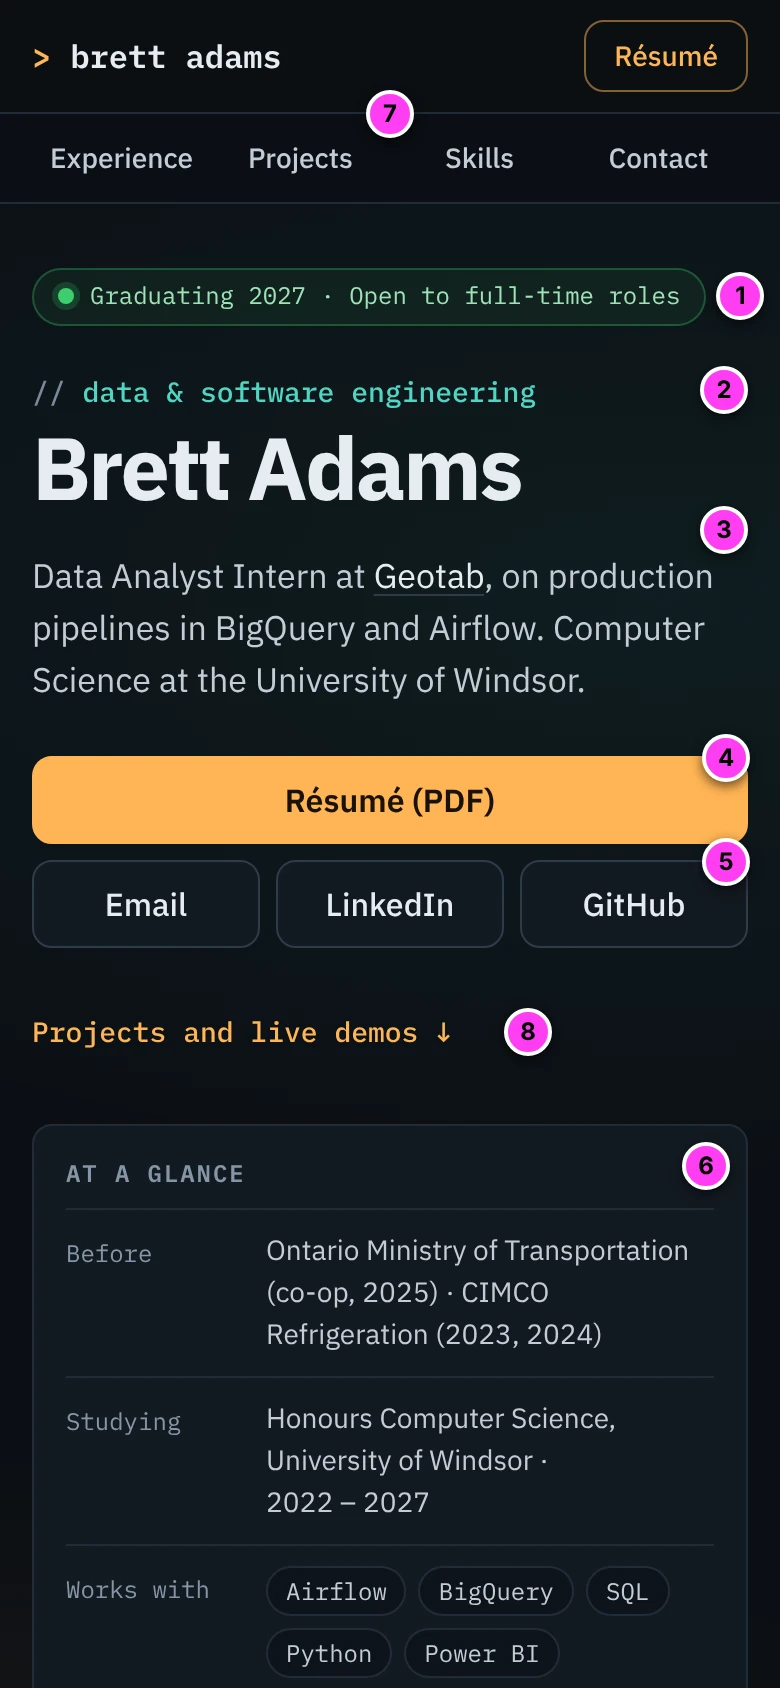
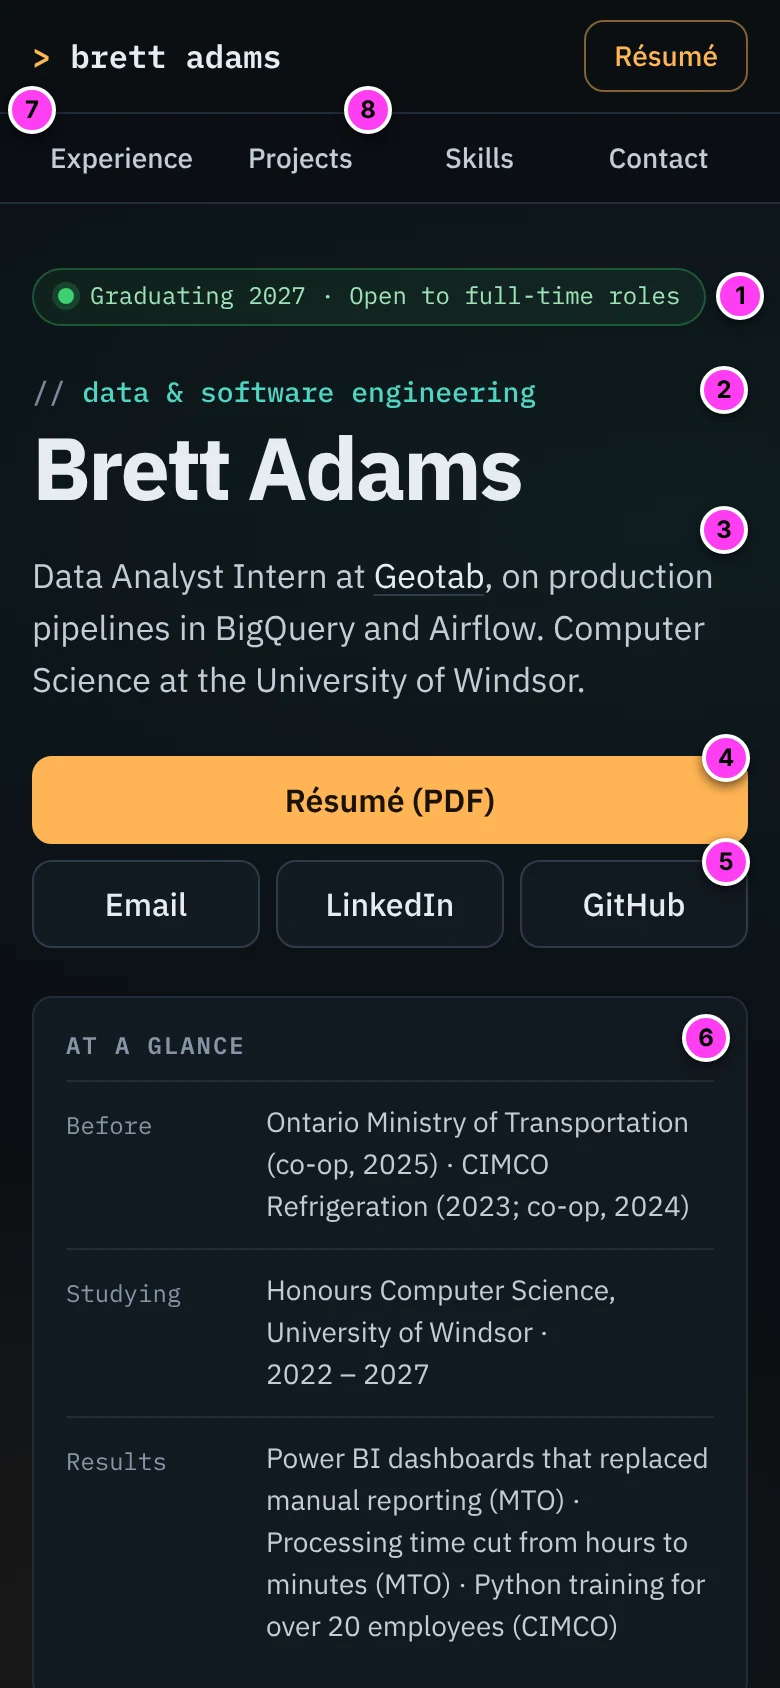
WIP: review fixes in progress (mock and research files)
Claude-Session: https://claude.ai/code/session_01QvLCeGaMDEbJwXX9Jf32bx

diff --git a/handoff/mocks/first-screen.html b/handoff/mocks/first-screen.html
@@ -5,9 +5,11 @@
 
   - Tokens are the proposed :root block from section 7, pasted unchanged.
   - Fonts load from Google Fonts for this mock only. The site self-hosts them (section 7).
-  - Magenta circles (.mk) and magenta dashed boxes (.ph) are mock overlays, not design.
-    Circles are aria-hidden. Dashed boxes mark [BRETT: ...] placeholders that never ship.
-  - Copy is the sourced copy from section 6. Links point where the real ones will.
+  - Magenta circles (.mk) are mock overlays, not design. They are aria-hidden.
+  - Copy is what ships by default (section 6.3): every line sourced, no [BRETT: ...] placeholder.
+    The two glance rows that wait on Brett are kept below as an HTML comment, with their
+    placeholder text, and section 6.2 gives their measured position.
+  - Links point where the real ones will.
   - Markup and class names follow section 8 (8.0-8.4); values come from section 7.
 -->
 <html lang="en">
@@ -266,6 +268,7 @@ main:focus { outline: none; }
   color: var(--muted); font: 600 var(--fs-sm) / 1.4 var(--mono);
   letter-spacing: var(--tracking-caps); text-transform: uppercase;
 }
+.section-lede { max-width: 54em; margin: calc(-1 * var(--space-4)) 0 var(--space-7); color: var(--soft); }
 .timeline { position: relative; margin: 0; padding: 0 0 0 32px; list-style: none; }
 .timeline::before {
   content: ""; position: absolute; left: 6px; top: 8px; bottom: 8px; width: 1px;
@@ -298,6 +301,7 @@ main:focus { outline: none; }
   }
   .nav-sections a:hover { color: var(--text); }
   .hero-grid { grid-template-columns: minmax(0, 1fr); gap: var(--space-6); }
+  .hero-jump { display: none; }   /* row 2's "Projects" does the same job */
   .glance { max-width: 560px; }
 }
 @media (max-width: 640px) {
@@ -309,8 +313,10 @@ main:focus { outline: none; }
   .actions .btn-resume { grid-column: 1 / -1; }
   .glance { max-width: none; padding: 16px; }
   .glance-list > div { grid-template-columns: 88px minmax(0, 1fr); }
-  .glance-list > .glance-now { display: none; }   /* needs the child selector to beat .glance-list > div */
+  .glance-list > .glance-now,
+  .glance-list > .glance-tools { display: none; }   /* needs the child selector to beat .glance-list > div */
   .section { padding: var(--space-8) 0; }
+  .section-lede { display: none; }
 }
 
 /* ---- Mock overlay only: not part of the design ---- */
@@ -339,7 +345,7 @@ main:focus { outline: none; }
 .m7 { left: auto; right: -36px; top: 16px; }
 .m8 { top: 10px; }
 .m8b { top: -4px; }
-.m7m { display: none; }
+.m7m, .m8m { display: none; }
 @media (max-width: 860px) {
   .mk { left: auto; right: 0; top: -4px; }
   .m1 { right: -30px; top: 1px; }
@@ -347,8 +353,8 @@ main:focus { outline: none; }
   .m4, .m5 { right: -2px; top: -12px; }
   .m6 { right: 8px; top: 8px; }
   .m7 { display: none; }
-  .m7m { display: grid; left: calc(50% - 12px); right: auto; top: -12px; }
-  .m8 { left: auto; right: auto; left: 236px; top: 10px; }
+  .m7m { display: grid; left: 4px; right: auto; top: -14px; }
+  .m8m { display: grid; left: 172px; right: auto; top: -14px; }   /* on row 2's "Projects": the jump link is hidden here */
 }
 </style>
 </head>
@@ -375,6 +381,7 @@ main:focus { outline: none; }
     <a href="/#skills">Skills</a>
     <a href="/#contact">Contact</a>
     <span class="mk m7m" aria-hidden="true">7</span>
+    <span class="mk m8m" aria-hidden="true">8</span>
   </div>
 </nav>
 
@@ -402,11 +409,14 @@ main:focus { outline: none; }
         <h2 class="glance-title" id="glance-title">At a glance</h2>
         <dl class="glance-list">
           <div class="glance-now"><dt>Now</dt><dd>Data Analyst Intern, Geotab · <span class="nowrap">May 2026 – Present</span></dd></div>
-          <div><dt>Before</dt><dd>Ontario Ministry of Transportation <span class="nowrap">(co-op, 2025)</span> · CIMCO Refrigeration <span class="nowrap">(2023, 2024)</span></dd></div>
+          <div><dt>Before</dt><dd>Ontario Ministry of Transportation <span class="nowrap">(co-op, 2025)</span> · CIMCO Refrigeration <span class="nowrap">(2023; co-op, 2024)</span></dd></div>
           <div><dt>Studying</dt><dd>Honours Computer Science, University of Windsor · <span class="nowrap">2022 – 2027</span></dd></div>
-          <div><dt>Works with</dt><dd><ul class="chips" role="list"><li>Airflow</li><li>BigQuery</li><li>SQL</li><li>Python</li><li>Power BI</li><li>GitLab CI/CD</li></ul></dd></div>
+          <!-- Once Brett answers (section 18), these rows go here, in this order. They do not ship before.
           <div><dt>Looking for</dt><dd><span class="ph">[BRETT: target roles, e.g. data engineering, analytics or software roles]</span></dd></div>
           <div><dt>Based in</dt><dd><span class="ph">[BRETT: city / open to relocation?]</span></dd></div>
+          -->
+          <div class="glance-results"><dt>Results</dt><dd>Power BI dashboards that replaced manual reporting (MTO) · Processing time cut from hours to minutes (MTO) · Python training for over 20 employees (CIMCO)</dd></div>
+          <div class="glance-tools"><dt>Works with</dt><dd><ul class="chips" role="list"><li>Apache Airflow</li><li>BigQuery</li><li>SQL</li><li>Python</li><li>Power BI</li><li>GitLab CI/CD</li></ul></dd></div>
         </dl>
         <span class="mk m6" aria-hidden="true">6</span>
       </div>
@@ -416,6 +426,7 @@ main:focus { outline: none; }
   <section id="experience" class="section" aria-labelledby="experience-title">
     <div class="wrap">
       <h2 id="experience-title" class="section-title mk-host"><span class="prefix" aria-hidden="true">## </span>Experience<span class="mk mk-ghost m8b" aria-hidden="true">8</span></h2>
+      <p class="section-lede">Four roles since 2023: automation and Python training at CIMCO Refrigeration, Power BI reporting at the Ontario Ministry of Transportation, and production data pipelines at Geotab.</p>
       <ol class="timeline">
         <li class="job job-current">
           <div class="job-head">
@@ -423,8 +434,8 @@ main:focus { outline: none; }
             <p class="job-when">May 2026 – Present · Oakville, ON</p>
           </div>
           <ul class="job-points">
-            <li>Maintain and debug production Apache Airflow DAGs on Google Cloud Composer that run the SalesOps data pipelines.</li>
-            <li>Write and deploy production BigQuery SQL for Revenue Operations tables, including the device status, database dimension and accounts master datasets.</li>
+            <li>Maintain and debug production Apache Airflow DAGs on Cloud Composer that run the SalesOps data pipelines.</li>
+            <li>Write and deploy production BigQuery SQL for Revenue Operations tables.</li>
           </ul>
         </li>
       </ol>
